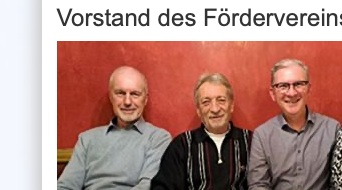
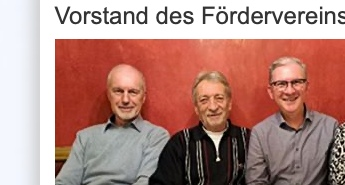
Add files via upload

Changed region(s): [[0.117, 0.0, 1.0, 1.0], [0.2339, 0.6757, 0.2632, 0.7027]]

diff --git a/assets/css/foerderverein-v20.css b/assets/css/foerderverein-v20.css
@@ -1,20 +1,93 @@
 
-.fv-board-section{margin-top:48px}
-.fv-board-intro{max-width:760px;color:#5c6b7a;margin:0 0 26px}
-.fv-board-grid{display:grid;grid-template-columns:repeat(3,minmax(0,1fr));gap:16px;margin:24px 0 30px}
-.fv-person{background:#fff;border:1px solid #dfe8f3;border-radius:16px;padding:22px;box-shadow:0 10px 28px rgba(2,31,70,.06)}
-.fv-person span{display:block;color:#0753a5;font-size:.78rem;font-weight:800;text-transform:uppercase;letter-spacing:.06em;margin-bottom:8px}
-.fv-person h3{margin:0;color:#071a33;font-size:1.08rem}
-.fv-account-card{display:grid;grid-template-columns:1fr 1fr;gap:18px;background:linear-gradient(135deg,#052f67,#0872c9);color:#fff;border-radius:20px;padding:28px;margin-top:10px}
-.fv-account-card .section-label{color:#b9dbff}
-.fv-account-card h3{color:#fff;margin:6px 0 10px}
-.fv-account-card p{margin:0;line-height:1.65}
-.fv-more-link{display:inline-flex;margin-top:20px;font-weight:800;color:#0753a5;text-decoration:none}
-.fv-more-link:hover{text-decoration:underline}
-@media(max-width:900px){.fv-board-grid{grid-template-columns:repeat(2,minmax(0,1fr))}.fv-account-card{grid-template-columns:1fr}}
-@media(max-width:580px){.fv-board-grid{grid-template-columns:1fr}.fv-account-card{padding:22px}}
+.fv-board-section{margin-top:54px}
+.fv-board-heading{max-width:820px;margin-bottom:26px}
+.fv-board-heading h2{margin:6px 0 12px;font-size:clamp(2rem,4vw,3.1rem);line-height:1.03;color:#0b1d36}
+.fv-board-heading p{margin:0;color:#5b6d83;line-height:1.65;font-size:1.02rem}
 
-.fv-board-photo{margin:22px 0 26px;background:#fff;border:1px solid #dfe8f3;border-radius:18px;overflow:hidden;box-shadow:0 12px 30px rgba(2,31,70,.08);max-width:720px}
-.fv-board-photo img{display:block;width:100%;height:auto;object-fit:cover}
-.fv-board-photo figcaption{padding:12px 16px;color:#5b6878;font-size:.9rem;background:#f8fbff;border-top:1px solid #e5edf6}
-.fv-board-photo--detail{max-width:760px}
+.fv-board-feature{
+  display:grid;
+  grid-template-columns:minmax(0,1.08fr) minmax(320px,.92fr);
+  gap:28px;
+  align-items:stretch;
+  margin:28px 0 26px;
+}
+.fv-board-photo{
+  margin:0;
+  background:#fff;
+  border:1px solid #dfe8f3;
+  border-radius:22px;
+  overflow:hidden;
+  box-shadow:0 18px 42px rgba(2,31,70,.10);
+}
+.fv-board-photo img{
+  display:block;
+  width:100%;
+  height:100%;
+  min-height:360px;
+  object-fit:cover;
+  object-position:center;
+}
+.fv-board-photo figcaption{
+  padding:13px 16px;
+  color:#66778c;
+  font-size:.88rem;
+  background:#f8fbff;
+  border-top:1px solid #e5edf6;
+}
+.fv-board-people{
+  display:grid;
+  grid-template-columns:1fr 1fr;
+  gap:14px;
+}
+.fv-board-people article{
+  min-height:108px;
+  display:flex;
+  flex-direction:column;
+  justify-content:center;
+  background:#fff;
+  border:1px solid #dfe8f3;
+  border-radius:18px;
+  padding:18px 20px;
+  box-shadow:0 10px 28px rgba(2,31,70,.06);
+}
+.fv-board-people span{
+  color:#0753a5;
+  font-size:.74rem;
+  font-weight:800;
+  text-transform:uppercase;
+  letter-spacing:.07em;
+  margin-bottom:7px;
+}
+.fv-board-people strong{
+  color:#0b1d36;
+  font-size:1.03rem;
+}
+
+.fv-account-card{
+  display:grid;
+  grid-template-columns:1fr 1fr;
+  gap:28px;
+  background:linear-gradient(135deg,#082d62 0%,#0a5fb6 100%);
+  color:#fff;
+  border-radius:22px;
+  padding:30px 34px;
+  box-shadow:0 18px 40px rgba(2,31,70,.16);
+}
+.fv-account-card .section-label{color:#bfe0ff}
+.fv-account-card h3{color:#fff;margin:6px 0 10px;font-size:1.12rem}
+.fv-account-card p{margin:0;line-height:1.7;color:#fff}
+.fv-more-link{display:inline-flex;margin-top:18px;font-weight:800;color:#0753a5;text-decoration:none}
+.fv-more-link:hover{text-decoration:underline}
+
+.fv-detail-photo-wrap{max-width:1040px;margin:34px auto 30px;padding:0 22px}
+.fv-board-photo--detail{max-width:760px;margin:0 auto}
+.fv-board-photo--detail img{min-height:0;height:auto}
+
+@media(max-width:980px){
+  .fv-board-feature{grid-template-columns:1fr}
+  .fv-board-photo img{min-height:0;height:auto}
+}
+@media(max-width:720px){
+  .fv-board-people{grid-template-columns:1fr}
+  .fv-account-card{grid-template-columns:1fr;padding:24px}
+}

diff --git a/foerderverein/index.html b/foerderverein/index.html
@@ -10,24 +10,28 @@
 <a class="quick-card" href="kontakt.html"><span>Mitmachen</span><strong>Kontakt</strong><p>Kontakt zum Förder- und Freundeskreis.</p></a>
 </div>
 
+
 <section class="fv-board-section">
-  <span class="section-label">Organisation</span>
-  <h2>Vorstand des Fördervereins</h2>
-  <p class="fv-board-intro">Der Förder- und Freundeskreis unterstützt die SpVgg Kaufbeuren und besonders die Nachwuchsarbeit des Vereins.</p>
+  <div class="fv-board-heading">
+    <span class="section-label">Organisation</span>
+    <h2>Vorstand des Fördervereins</h2>
+    <p>Der Förder- und Freundeskreis unterstützt die SpVgg Kaufbeuren und besonders die Nachwuchsarbeit des Vereins.</p>
+  </div>
 
-  
-  <figure class="fv-board-photo">
-    <img src="../assets/images/foerderverein/vorstand-foerderverein.jpg" alt="Vorstand des Fördervereins der SpVgg Kaufbeuren">
-    <figcaption>v. l. Jens-Uwe Homann, Achim Meirich, Herbert Schaller, Tina Plischke</figcaption>
-  </figure>
+  <div class="fv-board-feature">
+    <figure class="fv-board-photo">
+      <img src="../assets/images/foerderverein/vorstand-foerderverein.jpg" alt="Vorstand des Fördervereins der SpVgg Kaufbeuren">
+      <figcaption>v. l. Jens-Uwe Homann, Achim Meirich, Herbert Schaller, Tina Plischke</figcaption>
+    </figure>
 
-<div class="fv-board-grid">
-    <article class="fv-person"><span>1. Vorsitzende</span><h3>Tina Plischke</h3></article>
-    <article class="fv-person"><span>2. Vorsitzender</span><h3>Jens-Uwe Homann</h3></article>
-    <article class="fv-person"><span>Geschäftsführung</span><h3>Achim Meirich</h3></article>
-    <article class="fv-person"><span>Finanzen</span><h3>Herbert Schaller</h3></article>
-    <article class="fv-person"><span>Beisitzer</span><h3>Hans Haumayr</h3></article>
-    <article class="fv-person"><span>Beisitzer</span><h3>Rudolf Schnippe</h3></article>
+    <div class="fv-board-people">
+      <article><span>1. Vorsitzende</span><strong>Tina Plischke</strong></article>
+      <article><span>2. Vorsitzender</span><strong>Jens-Uwe Homann</strong></article>
+      <article><span>Geschäftsführung</span><strong>Achim Meirich</strong></article>
+      <article><span>Finanzen</span><strong>Herbert Schaller</strong></article>
+      <article><span>Beisitzer</span><strong>Hans Haumayr</strong></article>
+      <article><span>Beisitzer</span><strong>Rudolf Schnippe</strong></article>
+    </div>
   </div>
 
   <div class="fv-account-card">
@@ -45,7 +49,7 @@
     </div>
   </div>
 
-  <a class="fv-more-link" href="vorstand.html">Alle Angaben zur Vorstandschaft ansehen →</a>
+  <a class="fv-more-link" href="vorstand.html">Vorstandschaft im Detail ansehen →</a>
 </section>
 
 </div></div></section></main>

diff --git a/foerderverein/vorstand.html b/foerderverein/vorstand.html
@@ -1,12 +1,16 @@
 <!doctype html><html lang="de"><head><meta charset="utf-8"><meta name="viewport" content="width=device-width,initial-scale=1">
-<title>Vorstand Förderverein | Förderverein SpVgg Kaufbeuren</title><link rel="stylesheet" href="../assets/css/subpages.css"><link rel="stylesheet" href="../assets/css/migration-content.css"></head><body>
+<title>Vorstand Förderverein | Förderverein SpVgg Kaufbeuren</title><link rel="stylesheet" href="../assets/css/subpages.css"><link rel="stylesheet" href="../assets/css/migration-content.css"><link rel="stylesheet" href="../assets/css/foerderverein-v20.css"></head><body>
 <header class="sub-header"><div class="wrap sub-header-row"><a class="sub-brand" href="../index.html"><img src="../assets/images/logo-top.png" alt="SpVgg Kaufbeuren"></a><button class="sub-menu" aria-label="Menü öffnen" aria-expanded="false">☰</button>
 <nav class="sub-nav"><a href="../index.html">Start</a><a href="../news.html">News</a><a href="../jugend/index.html">Jugend</a><a href="../verein/index.html">Verein</a><a class="active" href="index.html">Förderverein</a></nav></div></header>
-<main><section class="sub-hero"><div class="wrap"><span>Förder- und Freundeskreis</span><h1>Vorstand des Fördervereins</h1>
-<figure class="fv-board-photo fv-board-photo--detail">
-  <img src="../assets/images/foerderverein/vorstand-foerderverein.jpg" alt="Vorstand des Fördervereins der SpVgg Kaufbeuren">
-  <figcaption>v. l. Jens-Uwe Homann, Achim Meirich, Herbert Schaller, Tina Plischke</figcaption>
-</figure>
+<main>
+<section class="fv-detail-photo-wrap">
+  <figure class="fv-board-photo fv-board-photo--detail">
+    <img src="../assets/images/foerderverein/vorstand-foerderverein.jpg" alt="Vorstand des Fördervereins der SpVgg Kaufbeuren">
+    <figcaption>v. l. Jens-Uwe Homann, Achim Meirich, Herbert Schaller, Tina Plischke</figcaption>
+  </figure>
+</section>
+<section class="sub-hero"><div class="wrap"><span>Förder- und Freundeskreis</span><h1>Vorstand des Fördervereins</h1>
+
 <p>Vorstandschaft, Postanschrift und Spendenkonto.</p></div></section>
 <section class="sub-section"><div class="wrap"><div class="main-content">
 <span class="section-label">Vorstand</span><h2>Vorstandschaft des Fördervereins</h2>
